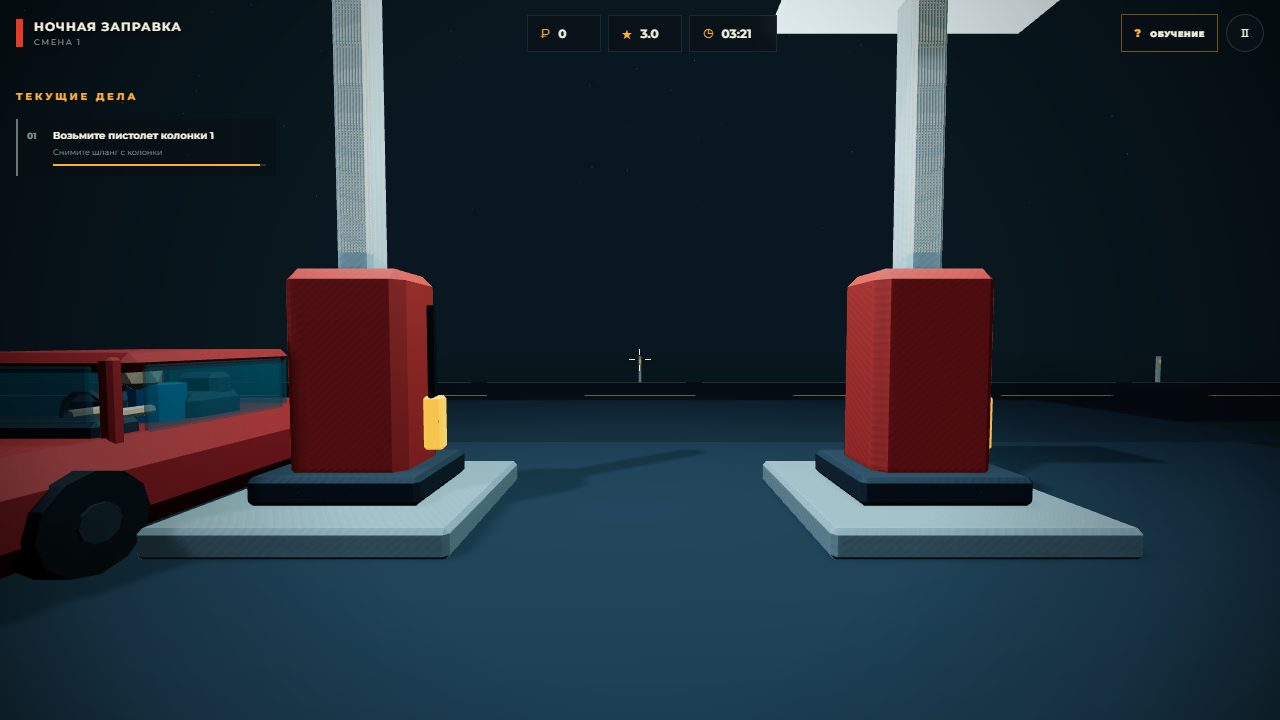
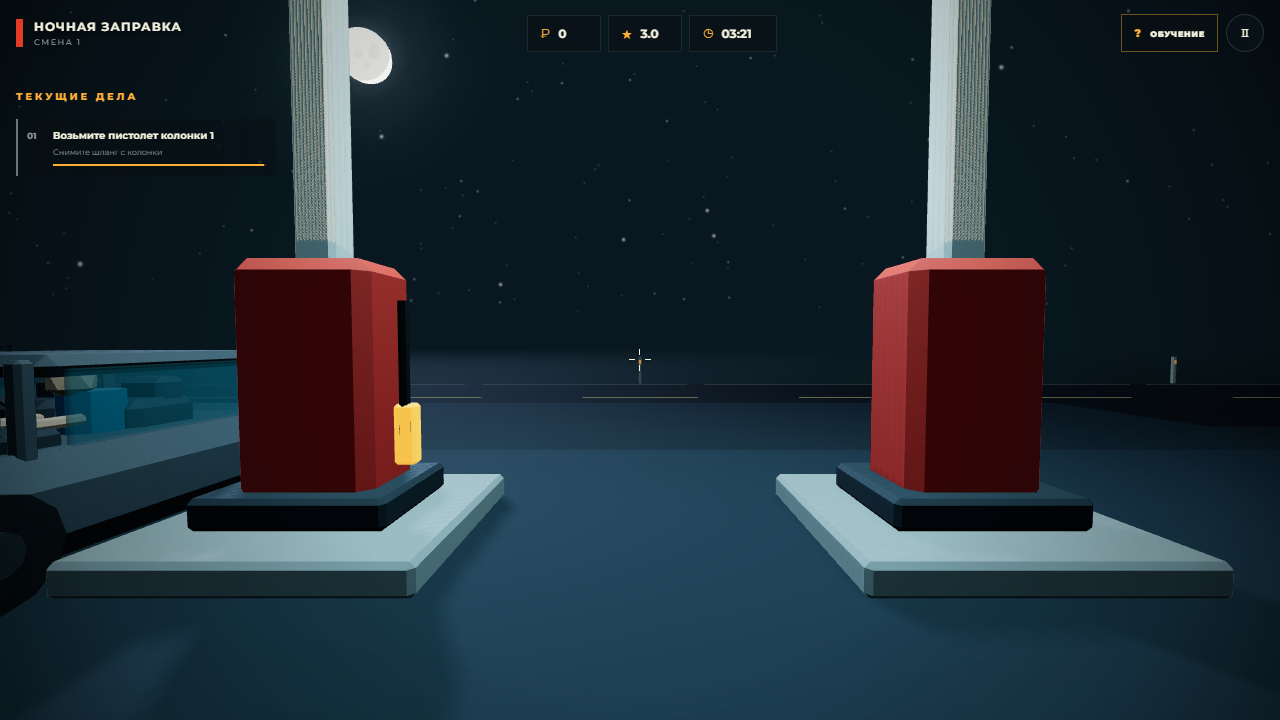
Hang a moon over the highway and let the player jump
Adds src/sky.js: a moon disc with maria and a halo, four layers of stars
with a milky way band, and an occasional meteor. The directional
moonlight now points from where the moon is drawn, so shadows match the
sky. Sky materials ignore fog and the dome rides with the camera, so it
reads as infinitely far away.

Jumping is bound to Space and to a new button beside the action button:
0.69 m high, 0.57 s in the air, with a landing dip and a held item that
lags behind in flight. It is deliberately vertical only — horizontal
collision is untouched, so the counter, pumps and cars still block the
way.

Also fixes interaction targeting. A spill could land next to the mop
stand, and holding E there returned the mop instead of cleaning, which
left the job impossible to finish. Tool stands now yield to real jobs, a
job matching what is already in hand pulls harder, and spills keep clear
of the cleaning kit.

E2E covers the night sky, the jump arc and the mobile jump button.

Changed region(s): [[0.0, 0.0, 0.5312, 0.8556], [0.5938, 0.0, 0.9688, 0.8556], [0.9062, 0.4889, 0.9375, 0.5194]]

diff --git a/src/main.js b/src/main.js
@@ -5,6 +5,7 @@ import { AudioSystem } from './audio.js';
 import { initGamePush, loadLocal, saveProgress, showInterstitial, showRewarded, gpState, bindAdPause } from './gamepush.js';
 import { HandView } from './hands.js';
 import { ROAD, laneFor, entryPath, reversePath, exitPath, passPath, addLights, drive, setPath } from './traffic.js';
+import { createSky, MOON_DIRECTION } from './sky.js';
 
 const $=s=>document.querySelector(s), $$=s=>[...document.querySelectorAll(s)];
 const ui={
@@ -19,6 +20,7 @@ const isTouch=matchMedia('(pointer:coarse)').matches;
 const SLOT_Z=-7.4,SLOT_OFFSET=2.3,VAN_SLOT={x:7.6,z:-7.4};
 const VEHICLE_STATE=Object.freeze({ENTERING:'entering',WAITING:'waiting',FUELING:'fueling',LEAVING:'leaving'});
 const PLAYER_RADIUS=.36,SAFE_MARGIN=.22,VEHICLE_MARGIN=.28,SAFE_APPROACH=12;
+const EYE_HEIGHT=1.62,JUMP_SPEED=4.9,GRAVITY=16.5;
 const MOP_SPOT=new THREE.Vector3(0,.25,2.85),TOOL_SPOT=new THREE.Vector3(-4.28,.3,-.45);
 const COFFEE_SPOT=new THREE.Vector3(-1.75,.2,-.7),FOOD_SPOT=new THREE.Vector3(1.75,.2,-.7),FUSE_SPOT=new THREE.Vector3(-4.2,.2,2.2),LOST_SPOT=new THREE.Vector3(3.75,.2,2),STOCK_PICK_SPOT=new THREE.Vector3(-2.75,.2,3.18),STOCK_SHELF_SPOT=new THREE.Vector3(2,.2,3.8);
 const STOW_NOTE={mop:'Швабра вернулась на место',tools:'Инструменты вернулись в ящик'};
@@ -31,14 +33,14 @@ class NightStationGame{
     this.camera=new THREE.PerspectiveCamera(72,innerWidth/innerHeight,.08,120);this.camera.position.set(0,1.65,-2.8);this.camera.rotation.order='YXZ';
     this.renderer=new THREE.WebGLRenderer({canvas:this.canvas,antialias:true,powerPreference:'high-performance'});this.renderer.setPixelRatio(Math.min(devicePixelRatio,1.55));this.renderer.setSize(innerWidth,innerHeight);this.renderer.shadowMap.enabled=true;this.renderer.shadowMap.type=THREE.PCFSoftShadowMap;this.renderer.outputColorSpace=THREE.SRGBColorSpace;this.renderer.toneMapping=THREE.ACESFilmicToneMapping;this.renderer.toneMappingExposure=1.28;
     this.clock=new THREE.Clock();this.assets={};this.mode='loading';this.player=null;this.jobs=[];this.cars=[];this.traffic=[];this.pumps=[];this.nearest=null;this.actionHeld=false;this.actionLatched=false;this.actionProgress=0;this.keys={};this.joy={x:0,y:0};this.yaw=0;this.pitch=-.04;this.lookTouch=null;this.jobId=0;this.vehicleId=0;this.taskSignature='';this.guideIndex=0;this.resumeAfterGuide=false;this.elapsed=0;this.shiftLength=210;this.spawnTimer=2;this.eventTimer=24;this.trafficTimer=4;this.stock=6;this.carry=null;this.fuelHose=null;this.served=0;this.shiftStartMoney=0;this.blackout=false;this.blackoutCarry=null;this.specialVan=null;this.doorOpen=0;this.doorParts={left:[],right:[]};this.doorGlass=[];this.powerVisuals=[];this.state={...SAVE_DEFAULT,upgrades:{...SAVE_DEFAULT.upgrades}};
-    this.hands=new HandView();this.moving=false;this.lastYaw=0;this.lastPitch=0;
+    this.hands=new HandView();this.moving=false;this.lastYaw=0;this.lastPitch=0;this.grounded=true;this.jumpHeight=0;this.jumpSpeed=0;this.landDip=0;
     this.setupWorld();this.setupInput();this.setupUI();window.addEventListener('resize',()=>this.resize());document.addEventListener('visibilitychange',()=>this.visibility());
   }
   setupWorld(){
     const hemi=new THREE.HemisphereLight(0x7faabb,0x0b1715,1.85);this.scene.add(hemi);this.hemi=hemi;
     this.stationLights=[];
     [[-2.5,6,-7.4],[2.5,6,-7.4],[0,4,-.5]].forEach(([x,y,z],i)=>{const l=new THREE.PointLight(i===2?0xffdfad:0xb9efff,i===2?22:28,15,1.5);l.position.set(x,y,z);l.castShadow=i===2;l.shadow.mapSize.set(512,512);this.scene.add(l);this.stationLights.push(l)});
-    const moon=new THREE.DirectionalLight(0x86a3c5,3.1);moon.position.set(-12,18,9);moon.castShadow=true;moon.shadow.mapSize.set(1024,1024);moon.shadow.camera.left=-22;moon.shadow.camera.right=22;moon.shadow.camera.top=22;moon.shadow.camera.bottom=-22;this.scene.add(moon);
+    const moon=new THREE.DirectionalLight(0x86a3c5,3.1);moon.position.copy(MOON_DIRECTION).multiplyScalar(24);moon.castShadow=true;moon.shadow.mapSize.set(1024,1024);moon.shadow.camera.left=-22;moon.shadow.camera.right=22;moon.shadow.camera.top=22;moon.shadow.camera.bottom=-22;this.scene.add(moon);
     const ground=new THREE.Mesh(new THREE.PlaneGeometry(180,180),new THREE.MeshStandardMaterial({color:0x182620,roughness:1}));ground.rotation.x=-Math.PI/2;ground.receiveShadow=true;this.scene.add(ground);
     const forecourt=new THREE.Mesh(new THREE.PlaneGeometry(19,23),new THREE.MeshStandardMaterial({color:0x263239,roughness:.95}));forecourt.rotation.x=-Math.PI/2;forecourt.position.set(0,.012,-5);forecourt.receiveShadow=true;this.scene.add(forecourt);
     // Трасса тянется дальше, чем видит туман: машины успевают выехать и уехать по дороге.
@@ -50,7 +52,7 @@ class NightStationGame{
     for(let x=-60;x<61;x+=10){const p=new THREE.Mesh(new THREE.BoxGeometry(.1,1,.1),postMat);p.position.set(x,.5,-21.9);this.scene.add(p);const r=new THREE.Mesh(new THREE.PlaneGeometry(.09,.16),reflectMat);r.position.set(x,.8,-21.84);this.scene.add(r)}
     const gravelMat=new THREE.MeshStandardMaterial({color:0x18201d,roughness:1});for(let i=0;i<24;i++){const rock=new THREE.Mesh(new THREE.DodecahedronGeometry(.12+Math.random()*.2,0),gravelMat);const side=Math.random()<.5?-1:1;rock.position.set(side*(10+Math.random()*15),.13,-5+Math.random()*23);rock.scale.y=.45;this.scene.add(rock)}
     const trunkMat=new THREE.MeshStandardMaterial({color:0x20170d}),pineMat=new THREE.MeshStandardMaterial({color:0x071c15});for(let i=0;i<20;i++){const side=Math.random()<.5?-1:1,x=side*(13+Math.random()*20),z=-10+Math.random()*33;const trunk=new THREE.Mesh(new THREE.CylinderGeometry(.12,.18,1.8,7),trunkMat);trunk.position.set(x,.9,z);const crown=new THREE.Mesh(new THREE.ConeGeometry(1.2+Math.random()*.8,3.7+Math.random()*2,7),pineMat);crown.position.set(x,3,z);this.scene.add(trunk,crown)}
-    const starGeo=new THREE.BufferGeometry(),starPos=[];for(let i=0;i<220;i++){const a=Math.random()*Math.PI*2,r=42+Math.random()*35,y=14+Math.random()*30;starPos.push(Math.cos(a)*r,y,Math.sin(a)*r)}starGeo.setAttribute('position',new THREE.Float32BufferAttribute(starPos,3));this.scene.add(new THREE.Points(starGeo,new THREE.PointsMaterial({color:0xbad7df,size:.11,transparent:true,opacity:.75})));
+    this.sky=createSky();this.scene.add(this.sky.group);
     // Ящик с инструментом у левой стены магазина: отсюда берут отвёртку и ключ.
     const toolbox=new THREE.Group();toolbox.position.set(TOOL_SPOT.x,.24,TOOL_SPOT.z);
     const boxMat=new THREE.MeshStandardMaterial({color:0xc2411f,roughness:.72}),steelMat=new THREE.MeshStandardMaterial({color:0x9aa5ab,roughness:.42,metalness:.55});
@@ -87,7 +89,7 @@ class NightStationGame{
     this.camera.lookAt(0,0,-4);ui.loadFill.style.width='100%';
   }
   setupInput(){
-    addEventListener('keydown',e=>{if(['KeyW','KeyA','KeyS','KeyD','ShiftLeft','ShiftRight','KeyE'].includes(e.code))e.preventDefault();this.keys[e.code]=true;if(e.code==='KeyE')this.actionHeld=true;if(e.code==='Escape'&&this.mode==='playing')this.pause()});
+    addEventListener('keydown',e=>{if(['KeyW','KeyA','KeyS','KeyD','ShiftLeft','ShiftRight','KeyE','Space'].includes(e.code))e.preventDefault();this.keys[e.code]=true;if(e.code==='KeyE')this.actionHeld=true;if(e.code==='Escape'&&this.mode==='playing')this.pause()});
     addEventListener('keyup',e=>{this.keys[e.code]=false;if(e.code==='KeyE'){this.actionHeld=false;this.actionProgress=0;this.actionLatched=false}});addEventListener('blur',()=>{this.keys={};this.actionHeld=false;this.actionLatched=false;this.joy={x:0,y:0}});
     this.canvas.addEventListener('click',()=>this.lockPointer());
     addEventListener('mousemove',e=>{if(document.pointerLockElement!==this.canvas||this.mode!=='playing')return;this.yaw-=e.movementX*.0022;this.pitch=THREE.MathUtils.clamp(this.pitch-e.movementY*.0019,-1.35,1.25)});
@@ -98,6 +100,7 @@ class NightStationGame{
     const joy=$('#joystick'),nub=$('#joystick i');let joyId=null;const update=e=>{const r=joy.getBoundingClientRect(),x=e.clientX-(r.left+r.width/2),y=e.clientY-(r.top+r.height/2),len=Math.hypot(x,y)||1,m=Math.min(38,len),nx=x/len,ny=y/len;this.joy={x:nx*m/38,y:ny*m/38};nub.style.transform=`translate(${nx*m}px,${ny*m}px)`};
     joy.addEventListener('pointerdown',e=>{joyId=e.pointerId;joy.setPointerCapture(joyId);update(e)});joy.addEventListener('pointermove',e=>{if(e.pointerId===joyId)update(e)});const end=e=>{if(e.pointerId!==joyId)return;joyId=null;this.joy={x:0,y:0};nub.style.transform=''};joy.addEventListener('pointerup',end);joy.addEventListener('pointercancel',end);
     const act=$('#action-btn');act.addEventListener('pointerdown',e=>{e.preventDefault();this.actionHeld=true;act.setPointerCapture(e.pointerId)});const release=()=>{this.actionHeld=false;this.actionProgress=0;this.actionLatched=false};act.addEventListener('pointerup',release);act.addEventListener('pointercancel',release);
+    const jump=$('#jump-btn');jump.addEventListener('pointerdown',e=>{e.preventDefault();this.keys.Space=true;try{jump.setPointerCapture(e.pointerId)}catch{}});const jumpEnd=()=>{this.keys.Space=false};jump.addEventListener('pointerup',jumpEnd);jump.addEventListener('pointercancel',jumpEnd);
   }
   lockPointer(){if(isTouch||this.mode!=='playing'||document.pointerLockElement===this.canvas)return;try{const result=this.canvas.requestPointerLock?.();result?.catch?.(()=>{})}catch{}}
   setupUI(){
@@ -113,14 +116,15 @@ class NightStationGame{
   showMenu(){this.mode='menu';document.exitPointerLock?.();this.camera.fov=43;this.camera.updateProjectionMatrix();this.camera.position.set(12,12,-16);this.camera.lookAt(0,1,-4);if(this.player)this.player.visible=true;ui.hud.classList.add('hidden');ui.tasks.classList.add('hidden');ui.mobile.classList.add('hidden');ui.prompt.classList.add('hidden');ui.crosshair.classList.add('hidden');ui.lookHint.classList.add('hidden');ui.menu.classList.remove('hidden');$('#continue-btn').classList.toggle('hidden',!loadLocal());}
   prepareStart(fresh){audio.ensure();if(fresh)this.setState({...SAVE_DEFAULT,upgrades:{...SAVE_DEFAULT.upgrades},tutorial:false});ui.menu.classList.add('hidden');if(!this.state.tutorial)ui.tutorial.classList.remove('hidden');else this.startShift()}
   startShift(){
-    this.clearShift();this.addStandJobs();this.mode='playing';this.elapsed=0;this.spawnTimer=.8;this.eventTimer=24+Math.random()*7;this.trafficTimer=2.5;this.served=0;this.stock=6;this.shiftStartMoney=this.state.money;this.blackout=false;this.blackoutCarry=null;this.setBlackout(false);this.doorOpen=0;this.applyDoorOpen();this.yaw=0;this.pitch=-.04;this.camera.fov=72;this.camera.updateProjectionMatrix();this.player.position.set(0,.26,-3.35);this.player.visible=false;ui.hud.classList.remove('hidden');ui.tasks.classList.remove('hidden');ui.crosshair.classList.remove('hidden');ui.lookHint.classList.toggle('hidden',isTouch||document.pointerLockElement===this.canvas);ui.mobile.classList.toggle('hidden',!isTouch);ui.results.classList.add('hidden');this.toast(`Смена ${this.state.shift} открыта. <b>До рассвета 03:30</b>`);this.updateHud();saveProgress(this.state);this.lockPointer()
+    this.clearShift();this.addStandJobs();this.mode='playing';this.elapsed=0;this.spawnTimer=.8;this.eventTimer=24+Math.random()*7;this.trafficTimer=2.5;this.served=0;this.stock=6;this.shiftStartMoney=this.state.money;this.blackout=false;this.blackoutCarry=null;this.setBlackout(false);this.doorOpen=0;this.applyDoorOpen();this.yaw=0;this.pitch=-.04;this.camera.fov=72;this.camera.updateProjectionMatrix();this.player.position.set(0,.26,-3.35);this.player.visible=false;this.resetJump();ui.hud.classList.remove('hidden');ui.tasks.classList.remove('hidden');ui.crosshair.classList.remove('hidden');ui.lookHint.classList.toggle('hidden',isTouch||document.pointerLockElement===this.canvas);ui.mobile.classList.toggle('hidden',!isTouch);ui.results.classList.add('hidden');this.toast(`Смена ${this.state.shift} открыта. <b>До рассвета 03:30</b>`);this.updateHud();saveProgress(this.state);this.lockPointer()
   }
   clearShift(){this.returnFuelHose();for(const c of [...this.cars])this.despawn(c);this.cars=[];for(const t of [...this.traffic])this.despawn(t);this.traffic=[];for(const j of this.jobs)if(j.visual)this.scene.remove(j.visual);this.jobs=[];this.pumps.forEach(p=>{p.car=null;p.broken=false});if(this.specialVan){this.despawn(this.specialVan);this.specialVan=null}this.carry=null;this.blackoutCarry=null;this.kitMop?.forEach(m=>m.visible=true);this.updateCarry()}
   update(dt){
     if(this.mode==='playing')this.updatePlay(dt);else if(this.mode==='menu'||this.mode==='loading')this.updateMenu(dt);
+    this.sky.update(dt,this.camera.position);
     this.marker.rotation.y+=dt*.8;if(this.marker.visible)this.marker.position.y=.12+Math.sin(performance.now()*.003)*.08;
     const playing=this.mode==='playing';
-    if(playing){this.hands.update(dt,{moving:this.moving,acting:this.actionHeld&&!!this.nearest,fueling:this.cars.some(c=>c.status===VEHICLE_STATE.FUELING),yawDelta:this.yaw-this.lastYaw,pitchDelta:this.pitch-this.lastPitch});this.updateFuelHoseVisual()}
+    if(playing){this.hands.update(dt,{moving:this.moving,acting:this.actionHeld&&!!this.nearest,fueling:this.cars.some(c=>c.status===VEHICLE_STATE.FUELING),vertical:this.grounded?0:this.jumpSpeed,landing:this.landDip,yawDelta:this.yaw-this.lastYaw,pitchDelta:this.pitch-this.lastPitch});this.updateFuelHoseVisual()}
     this.lastYaw=this.yaw;this.lastPitch=this.pitch;
     this.renderer.render(this.scene,this.camera);
     if(playing)this.hands.render(this.renderer,this.camera.aspect)
@@ -128,7 +132,7 @@ class NightStationGame{
   updateMenu(dt){const t=performance.now()*.00025;const target=new THREE.Vector3(12+Math.sin(t)*2,12,-16+Math.cos(t)*2);this.camera.position.lerp(target,dt*.6);this.camera.lookAt(0,1,-4)}
   openGuide(){if(this.mode!=='playing')return;this.resumeAfterGuide=true;this.mode='guide';this.actionHeld=false;document.exitPointerLock?.();audio.pause(true);this.guideIndex=0;this.renderGuide();ui.mobile.classList.add('hidden');ui.lookHint.classList.add('hidden');ui.guide.classList.remove('hidden')}
   renderGuide(){const slides=[
-    ['Как двигаться','Кликните по игре и осматривайтесь мышью. WASD — движение относительно взгляда, Shift — бег, E — действие. На телефоне: левый стик и свайп справа.','tutorial/01-controls.png'],
+    ['Как двигаться','Кликните по игре и осматривайтесь мышью. WASD — движение относительно взгляда, Shift — бег, Space — прыжок, E — действие. На телефоне: левый стик, свайп справа и кнопки «Прыжок» и «Действие».','tutorial/01-controls.png'],
     ['Колонки и машины','Когда машина остановится, сначала снимите пистолет с отмеченной колонки. Затем подойдите к лючку машины и удерживайте E для заправки. После неё шланг вернётся на место.','tutorial/02-pumps.png'],
     ['Кофе, еда и склад','Кофе и еда готовятся на двух аппаратах у прилавка — ищите таблички «КОФЕ» и «ЕДА». Товарные стеллажи теперь стоят у задней стены и не закрывают проходы.','tutorial/03-shop.png'],
     ['Ночные происшествия','При отключении света вся заправка остановится: сначала возьмите инструменты и почините щиток у левой стены. Входные двери аварийно останутся открыты. Для пятна нужна швабра, а жёлтый ящик «НАХОДКИ» стоит справа.','tutorial/04-events.png']
@@ -145,8 +149,21 @@ class NightStationGame{
   updatePlayer(dt){
     let strafe=(this.keys.KeyD?1:0)-(this.keys.KeyA?1:0)+this.joy.x,forward=(this.keys.KeyW?1:0)-(this.keys.KeyS?1:0)-this.joy.y;const len=Math.hypot(strafe,forward);let moving=false;
     if(len>.05){strafe/=Math.max(1,len);forward/=Math.max(1,len);const run=this.keys.ShiftLeft||this.keys.ShiftRight?1.55:1,speed=(4.35+this.state.upgrades.speed*.52)*run,fx=-Math.sin(this.yaw),fz=-Math.cos(this.yaw),rx=Math.cos(this.yaw),rz=-Math.sin(this.yaw),dx=(rx*strafe+fx*forward)*speed*dt,dz=(rz*strafe+fz*forward)*speed*dt;const nextX=this.player.position.x+dx,nextZ=this.player.position.z+dz,stuck=this.isBlocked(this.player.position.x,this.player.position.z);if(stuck||!this.isBlocked(nextX,this.player.position.z))this.player.position.x=nextX;if(stuck||!this.isBlocked(this.player.position.x,nextZ))this.player.position.z=nextZ;moving=true}
-    this.moving=moving;const bob=moving?Math.sin(this.elapsed*11)*.035:0;this.camera.position.set(this.player.position.x,1.62+bob,this.player.position.z);this.camera.rotation.set(this.pitch,this.yaw,0,'YXZ')
+    this.moving=moving;this.updateJump(dt);
+    const bob=moving&&this.grounded?Math.sin(this.elapsed*11)*.035:0;
+    this.camera.position.set(this.player.position.x,EYE_HEIGHT+bob+this.jumpHeight-this.landDip,this.player.position.z);
+    this.camera.rotation.set(this.pitch,this.yaw,0,'YXZ')
   }
+  /* Прыжок ничего не меняет по горизонтали: перепрыгнуть прилавок или машину нельзя. */
+  updateJump(dt){
+    if(this.grounded&&this.keys.Space){this.grounded=false;this.jumpSpeed=JUMP_SPEED;audio.tone(196,.09,'sine',.1)}
+    if(!this.grounded){
+      this.jumpSpeed-=GRAVITY*dt;this.jumpHeight+=this.jumpSpeed*dt;
+      if(this.jumpHeight<=0){this.jumpHeight=0;this.grounded=true;this.landDip=Math.min(.13,Math.abs(this.jumpSpeed)*.026);this.jumpSpeed=0;audio.tone(104,.13,'sine',.09)}
+    }
+    this.landDip+=(0-this.landDip)*Math.min(1,dt*8.5);
+  }
+  resetJump(){this.grounded=true;this.jumpHeight=0;this.jumpSpeed=0;this.landDip=0}
   placeHoseSegment(mesh,a,b){const d=this.hoseDirection.subVectors(b,a),length=d.length();mesh.position.copy(a).add(b).multiplyScalar(.5);mesh.scale.set(1,length,1);mesh.quaternion.setFromUnitVectors(this.hoseUp,d.normalize())}
   updateFuelHoseVisual(){
     const active=this.fuelHose&&this.carry==='hose'&&this.player;if(!active){this.hoseWorld.visible=false;return}
@@ -300,7 +317,7 @@ class NightStationGame{
   updateJobs(dt){for(const j of [...this.jobs]){if(j.patience!=null&&this.worksDuringBlackout(j)){j.patience-=dt;if(j.patience<=0){this.removeJob(j);j.onFail?.()}}}this.renderTasks()}
   renderTasks(){const shown=this.jobs.filter(j=>!j.hidden).sort((a,b)=>(b.priority||0)-(a.priority||0)||a.created-b.created).slice(0,5),signature=shown.map(j=>j.id).join(',')+'|'+(this.nearest?.id||0);if(signature!==this.taskSignature){this.taskSignature=signature;ui.taskList.innerHTML=shown.map((j,i)=>`<div class="task ${j===this.nearest?'active':''}" data-job="${j.id}"><span class="num">0${i+1}</span><b>${this.jobLabel(j)}</b><small>${j.sub||''}</small>${j.patience!=null?'<div class="patience"><i></i></div>':''}</div>`).join('')||'<div class="task"><span class="num">✓</span><b>Всё спокойно</b><small>Осмотритесь вокруг</small></div>'}for(const j of shown){if(j.patience==null)continue;const bar=ui.taskList.querySelector(`[data-job="${j.id}"] .patience i`);if(bar)bar.style.width=`${Math.max(0,j.patience/j.maxPatience*100)}%`}}
   updateInteraction(dt){
-    let nearest=null,best=2.15;for(const j of this.jobs){const p=j.pos(),d=Math.hypot(p.x-this.player.position.x,p.z-this.player.position.z);if(d<best){best=d;nearest=j}}
+    let nearest=null,best=2.15;for(const j of this.jobs){const p=j.pos();let d=Math.hypot(p.x-this.player.position.x,p.z-this.player.position.z);if(j.hidden)d+=.85;if(j.need&&this.carry===j.need)d-=.5;if(d<best){best=d;nearest=j}}
     if(nearest!==this.nearest){this.nearest?.onProgress?.(0);this.nearest=nearest;this.actionProgress=0}
     const poweredOff=nearest&&!this.worksDuringBlackout(nearest),missing=nearest&&nearest.need&&this.carry!==nearest.need?nearest.need:null;
     this.marker.visible=!!nearest;if(nearest){const p=nearest.pos();this.marker.position.x=p.x;this.marker.position.z=p.z;ui.prompt.classList.remove('hidden');ui.promptKey.textContent=isTouch?'●':'E';ui.promptTitle.textContent=this.jobLabel(nearest);ui.promptSub.textContent=poweredOff?'Нет электричества — сначала почините щиток':missing?NEED_HINT[missing]:'Удерживайте для действия'}else ui.prompt.classList.add('hidden');
@@ -313,7 +330,8 @@ class NightStationGame{
     if(type==='spill')this.spawnSpill();if(type==='blackout')this.eventBlackout();if(type==='bag')this.eventBag();if(type==='broken')this.eventBrokenPump();if(type==='van')this.eventVan();if(type==='whisper')this.eventWhisper()
   }
   spawnSpill(){
-    const p=new THREE.Vector3(-3+Math.random()*6,.255,-1+Math.random()*4),visual=new THREE.Group(),coffee=new THREE.MeshBasicMaterial({color:0x6b2f1b,transparent:true,opacity:.94,depthWrite:false,polygonOffset:true,polygonOffsetFactor:-2}),shine=new THREE.MeshBasicMaterial({color:0xc7783e,transparent:true,opacity:.7,depthWrite:false,polygonOffset:true,polygonOffsetFactor:-3});
+    const p=new THREE.Vector3(0,.255,0);do{p.set(-3+Math.random()*6,.255,-1+Math.random()*4)}while(Math.hypot(p.x-MOP_SPOT.x,p.z-MOP_SPOT.z)<1.3);
+    const visual=new THREE.Group(),coffee=new THREE.MeshBasicMaterial({color:0x6b2f1b,transparent:true,opacity:.94,depthWrite:false,polygonOffset:true,polygonOffsetFactor:-2}),shine=new THREE.MeshBasicMaterial({color:0xc7783e,transparent:true,opacity:.7,depthWrite:false,polygonOffset:true,polygonOffsetFactor:-3});
     [[0,0,.68,coffee],[-.48,.08,.28,coffee],[.43,-.18,.22,coffee],[.14,.3,.13,shine],[-.2,-.13,.09,shine]].forEach(([x,z,r,material],i)=>{const drop=new THREE.Mesh(new THREE.CircleGeometry(r,12),material);drop.name=i?'CoffeeDrop':'CoffeeSpill';drop.rotation.x=-Math.PI/2;drop.position.set(x,i*.001,z);drop.scale.set(1,i?.68:.82,1);drop.renderOrder=3;visual.add(drop)});visual.position.copy(p);this.scene.add(visual);
     this.eventNotice('≋','Кто-то разлил кофе','Пол становится липким. Швабра стоит внутри, за прилавком.');this.addJob({tag:'spill',need:'mop',title:'Уберите пятно',sub:'Швабра стоит внутри, за прилавком',pos:()=>p,duration:2.2,visual,onProgress:value=>{const size=Math.max(.12,1-value*.88);visual.scale.setScalar(size);visual.children.forEach((drop,i)=>drop.material.opacity=(i>2?.7:.94)*(.45+.55*(1-value)))},onComplete:()=>{this.state.money+=25;this.toast('Чисто! <b>+₽25</b>');audio.success();this.stowTool()}})
   }

diff --git a/src/sky.js b/src/sky.js
@@ -1,0 +1,117 @@
+import * as THREE from 'three';
+
+/* Ночное небо: луна, звёзды, млечный путь и редкие метеоры.
+   Небо не ловит туман и едет вместе с камерой, поэтому кажется бесконечно далёким. */
+
+export const MOON_DIRECTION=new THREE.Vector3(-.42,.44,-.79).normalize();
+const RADIUS=100;
+
+/* Мягкая круглая точка: из неё сделаны и звёзды, и ореол вокруг луны. */
+function softSprite(){
+  const canvas=document.createElement('canvas');canvas.width=canvas.height=64;
+  const ctx=canvas.getContext('2d'),gradient=ctx.createRadialGradient(32,32,0,32,32,32);
+  gradient.addColorStop(0,'rgba(255,255,255,1)');
+  gradient.addColorStop(.3,'rgba(255,255,255,.6)');
+  gradient.addColorStop(.65,'rgba(255,255,255,.14)');
+  gradient.addColorStop(1,'rgba(255,255,255,0)');
+  ctx.fillStyle=gradient;ctx.fillRect(0,0,64,64);
+  const texture=new THREE.CanvasTexture(canvas);texture.colorSpace=THREE.SRGBColorSpace;return texture;
+}
+
+const gauss=()=>(Math.random()+Math.random()+Math.random()-1.5)/1.5;
+/* Равномерно по верхней полусфере, чуть выше линии горизонта. */
+const domeDirection=()=>{const a=Math.random()*Math.PI*2,y=.05+Math.random()*.95,r=Math.sqrt(Math.max(0,1-y*y));return new THREE.Vector3(Math.cos(a)*r,y,Math.sin(a)*r)};
+
+const BAND_NORMAL=new THREE.Vector3(.58,.46,-.67).normalize();
+const BAND_U=new THREE.Vector3().crossVectors(BAND_NORMAL,new THREE.Vector3(0,1,0)).normalize();
+const BAND_V=new THREE.Vector3().crossVectors(BAND_NORMAL,BAND_U).normalize();
+/* Млечный путь — те же звёзды, но собранные в широкую полосу поперёк неба. */
+const bandDirection=()=>new THREE.Vector3()
+  .addScaledVector(BAND_U,Math.cos(Math.random()*Math.PI*2))
+  .addScaledVector(BAND_V,Math.sin(Math.random()*Math.PI*2))
+  .addScaledVector(BAND_NORMAL,gauss()*.085)
+  .normalize();
+
+function starLayer(count,size,opacity,color,texture,fromBand=false){
+  const positions=[];
+  for(let i=0;i<count;i++){
+    const dir=fromBand?bandDirection():domeDirection();
+    if(dir.y<.04){i--;continue}
+    positions.push(dir.x*RADIUS,dir.y*RADIUS,dir.z*RADIUS);
+  }
+  const geometry=new THREE.BufferGeometry();
+  geometry.setAttribute('position',new THREE.Float32BufferAttribute(positions,3));
+  const material=new THREE.PointsMaterial({color,size,map:texture,transparent:true,opacity,depthWrite:false,fog:false,sizeAttenuation:true});
+  const points=new THREE.Points(geometry,material);points.frustumCulled=false;
+  return points;
+}
+
+/* Луна: плоский диск с морями и двумя ореолами вокруг. */
+function buildMoon(texture){
+  const moon=new THREE.Group();
+  moon.position.copy(MOON_DIRECTION).multiplyScalar(RADIUS);
+  const disc=new THREE.Mesh(new THREE.SphereGeometry(3.8,22,16),new THREE.MeshBasicMaterial({color:0xf6f5e8,fog:false}));
+  moon.add(disc);
+  const mareMat=new THREE.MeshBasicMaterial({color:0xdfe0d4,fog:false});
+  const toViewer=MOON_DIRECTION.clone().negate();
+  for(const [ox,oy,r] of [[-1.05,.85,1.15],[.95,.2,.8],[-.15,-1.15,.62]]){
+    const mare=new THREE.Mesh(new THREE.SphereGeometry(r,10,8),mareMat);
+    const right=new THREE.Vector3().crossVectors(toViewer,new THREE.Vector3(0,1,0)).normalize();
+    const up=new THREE.Vector3().crossVectors(right,toViewer).normalize();
+    mare.position.addScaledVector(right,ox).addScaledVector(up,oy).addScaledVector(toViewer,3.52);
+    mare.scale.z=.35;moon.add(mare);
+  }
+  const halo=new THREE.Sprite(new THREE.SpriteMaterial({map:texture,color:0xc6dcea,transparent:true,opacity:.38,depthWrite:false,fog:false,blending:THREE.AdditiveBlending}));
+  halo.scale.setScalar(14);moon.add(halo);
+  const glow=new THREE.Sprite(new THREE.SpriteMaterial({map:texture,color:0x7ea6c4,transparent:true,opacity:.16,depthWrite:false,fog:false,blending:THREE.AdditiveBlending}));
+  glow.scale.setScalar(44);moon.add(glow);
+  return {moon,halo};
+}
+
+export function createSky(){
+  const texture=softSprite();
+  const group=new THREE.Group();
+  const dim=starLayer(720,.5,.75,0xbcd6e6,texture);
+  const milkyWay=starLayer(540,.44,.62,0xc3d8e8,texture,true);
+  const mid=starLayer(240,.86,.95,0xe4f0f7,texture);
+  const bright=starLayer(60,1.6,1,0xfffdf4,texture);
+  group.add(dim,milkyWay,mid,bright);
+  const {moon,halo}=buildMoon(texture);group.add(moon);
+
+  /* Метеор: раз в полминуты-минуту короткая черта прочерчивает небо. */
+  const meteor=new THREE.Sprite(new THREE.SpriteMaterial({map:texture,color:0xdff0ff,transparent:true,opacity:0,depthWrite:false,fog:false,blending:THREE.AdditiveBlending}));
+  meteor.visible=false;group.add(meteor);
+  const meteorFrom=new THREE.Vector3(),meteorTo=new THREE.Vector3();
+  let meteorTimer=12+Math.random()*30,meteorTime=0;
+
+  return {
+    group,
+    moonDirection:MOON_DIRECTION,
+    update(dt,cameraPosition){
+      group.position.copy(cameraPosition);
+      group.rotation.y+=dt*.0008; // очень медленный ход звёзд за смену
+      const t=performance.now()*.001;
+      mid.material.opacity=.72+Math.sin(t*1.7)*.08;
+      bright.material.opacity=.9+Math.sin(t*2.6+1.1)*.1;
+      halo.material.opacity=.36+Math.sin(t*.8)*.035;
+      if(meteor.visible){
+        meteorTime+=dt;
+        const p=meteorTime/1.1;
+        if(p>=1){meteor.visible=false;meteor.material.opacity=0}
+        else{
+          meteor.position.lerpVectors(meteorFrom,meteorTo,p);
+          meteor.material.opacity=Math.sin(p*Math.PI)*.85;
+          meteor.material.rotation=meteor.userData.tilt;
+          meteor.scale.set(9,.42,1);
+        }
+      }else if((meteorTimer-=dt)<=0){
+        meteorTimer=26+Math.random()*44;meteorTime=0;
+        const start=domeDirection(),drift=domeDirection();
+        meteorFrom.copy(start).multiplyScalar(RADIUS);
+        meteorTo.copy(start).lerp(drift,.28).normalize().multiplyScalar(RADIUS);
+        meteor.userData.tilt=Math.atan2(meteorTo.y-meteorFrom.y,meteorTo.x-meteorFrom.x);
+        meteor.position.copy(meteorFrom);meteor.visible=true;
+      }
+    }
+  };
+}

diff --git a/src/style.css b/src/style.css
@@ -12,6 +12,6 @@
 .guide-card{width:min(840px,95vw);padding:18px;max-height:96vh;overflow:auto}.guide-top{display:flex;align-items:center;justify-content:space-between}.guide-top .eyebrow{margin:0}.guide-top button{border:0;background:none;color:#9eaaa7;font-size:26px;padding:5px 10px}.guide-media{margin-top:14px;aspect-ratio:16/7;background:#050b0e;overflow:hidden;border:1px solid rgba(255,255,255,.1)}.guide-media img{width:100%;height:100%;object-fit:cover;display:block}.guide-copy{padding:17px 8px 8px}.guide-copy span{float:right;color:#778784;font-size:9px;letter-spacing:.12em}.guide-copy h2{font-size:clamp(24px,4vw,38px);margin:0 0 8px}.guide-copy p{margin:0;color:#aebbb7;font-size:11px;line-height:1.55}.guide-nav{display:flex;align-items:center;justify-content:space-between;gap:15px;margin-top:12px}.guide-nav button{min-width:125px}.guide-nav>div{display:flex;gap:6px}.guide-nav i{display:block;width:7px;height:7px;border-radius:50%;background:#405055}.guide-nav i.active{background:var(--amber)}
 .event-card{position:fixed;z-index:15;right:18px;bottom:22px;width:min(410px,calc(100vw - 36px));display:flex;gap:15px;background:linear-gradient(100deg,rgba(28,7,34,.97),rgba(7,15,19,.96));border:1px solid rgba(182,85,255,.25);padding:16px;animation:eventin 5.3s both;pointer-events:none}.event-icon{width:48px;height:48px;flex:0 0 48px;display:grid;place-items:center;background:#5b1b72;color:#e7b9ff;font-size:21px;font-weight:900}.event-card span{font-size:8px;letter-spacing:.2em;color:#bd7dd8}.event-card h3{font-size:14px;margin:5px 0}.event-card p{font-size:9px;color:#aab0ae;margin:0;line-height:1.4}@keyframes eventin{0%,100%{opacity:0;transform:translateY(30px)}7%,88%{opacity:1;transform:none}}
 .results-card{max-height:96vh;overflow:auto}.result-row{display:grid;grid-template-columns:repeat(3,1fr);gap:8px}.result-row div{background:rgba(255,255,255,.045);padding:15px}.result-row small{display:block;color:#7e8c89;font-size:8px;margin-bottom:8px}.result-row b{font-size:18px}.upgrades>p{font-size:8px;letter-spacing:.16em;color:#83918d;margin:22px 0 8px}.upgrades button{display:flex;justify-content:space-between;align-items:center;width:100%;background:#121f24;border:1px solid rgba(255,255,255,.09);padding:10px 13px;margin:5px 0;text-align:left}.upgrades button:hover:not(:disabled){border-color:var(--amber)}.upgrades button:disabled{opacity:.35;cursor:default}.upgrades button span{font-size:10px;font-weight:800}.upgrades button small{display:block;color:#798986;font-size:8px;margin-top:4px}.upgrades button b{font-size:11px;color:var(--amber)}.results-card>.primary,.results-card>.secondary{width:100%;margin-top:10px}
-#mobile-controls{position:fixed;z-index:9;inset:0;pointer-events:none}#joystick{position:absolute;left:max(24px,env(safe-area-inset-left));bottom:max(25px,env(safe-area-inset-bottom));width:116px;height:116px;border:1px solid rgba(255,255,255,.2);border-radius:50%;background:rgba(5,13,17,.27);pointer-events:auto}#joystick:before,#joystick:after{content:"";position:absolute;background:rgba(255,255,255,.12)}#joystick:before{width:1px;height:70%;left:50%;top:15%}#joystick:after{height:1px;width:70%;top:50%;left:15%}#joystick i{position:absolute;left:36px;top:36px;width:44px;height:44px;border-radius:50%;background:rgba(238,240,220,.78);box-shadow:0 5px 18px rgba(0,0,0,.35)}#action-btn{position:absolute;right:max(25px,env(safe-area-inset-right));bottom:max(35px,env(safe-area-inset-bottom));width:90px;height:90px;border-radius:50%;border:2px solid rgba(255,255,255,.55);background:rgba(228,59,38,.75);pointer-events:auto}#action-btn span{font-size:8px;font-weight:900;letter-spacing:.05em}
+#mobile-controls{position:fixed;z-index:9;inset:0;pointer-events:none}#joystick{position:absolute;left:max(24px,env(safe-area-inset-left));bottom:max(25px,env(safe-area-inset-bottom));width:116px;height:116px;border:1px solid rgba(255,255,255,.2);border-radius:50%;background:rgba(5,13,17,.27);pointer-events:auto}#joystick:before,#joystick:after{content:"";position:absolute;background:rgba(255,255,255,.12)}#joystick:before{width:1px;height:70%;left:50%;top:15%}#joystick:after{height:1px;width:70%;top:50%;left:15%}#joystick i{position:absolute;left:36px;top:36px;width:44px;height:44px;border-radius:50%;background:rgba(238,240,220,.78);box-shadow:0 5px 18px rgba(0,0,0,.35)}#action-btn{position:absolute;right:max(25px,env(safe-area-inset-right));bottom:max(35px,env(safe-area-inset-bottom));width:90px;height:90px;border-radius:50%;border:2px solid rgba(255,255,255,.55);background:rgba(228,59,38,.75);pointer-events:auto}#action-btn span{font-size:8px;font-weight:900;letter-spacing:.05em}#jump-btn{position:absolute;right:max(128px,calc(env(safe-area-inset-right) + 128px));bottom:max(48px,calc(env(safe-area-inset-bottom) + 13px));width:66px;height:66px;border-radius:50%;border:2px solid rgba(255,255,255,.4);background:rgba(12,32,42,.72);pointer-events:auto}#jump-btn span{font-size:8px;font-weight:900;letter-spacing:.05em}#jump-btn:active{background:rgba(55,213,239,.5)}
 @media (pointer:coarse),(max-width:800px){#mobile-controls:not(.hidden){display:block!important}.controls-hint{display:none}#look-hint{display:none!important}#prompt{bottom:145px}.menu-card{margin:0}.brand b{font-size:9px}.hud-stats{position:absolute;top:62px;right:12px}.guide-btn span{display:none}.guide-btn{width:38px;padding:0}.stat{min-width:auto;padding:7px 9px}.stat b{font-size:10px}#tasks{top:112px;width:58vw}.task{padding-top:8px;padding-bottom:8px}.task b{font-size:9px}.event-card{bottom:145px}.tutorial-grid{grid-template-columns:1fr}.tutorial-grid div{min-height:0;display:flex;gap:15px;align-items:center}.tutorial-grid b{margin:0}.tutorial-card{max-height:90vh;overflow:auto}.tutorial-card .primary{float:none;width:100%}.guide-media{aspect-ratio:16/9}.guide-nav button{min-width:90px;padding:12px 9px}.guide-copy{padding:12px 3px 4px}}
 @media (max-height:520px){.menu-card h1{font-size:43px}.lead{margin:15px 0}.controls-hint{margin-top:14px}.tutorial-grid{margin:10px 0}.dialog{padding:20px}.result-row div{padding:8px}.upgrades>p{margin-top:10px}.upgrades button{padding:7px 10px}}

diff --git a/index.html b/index.html
@@ -41,6 +41,7 @@
 
   <div id="mobile-controls" class="hidden">
     <div id="joystick"><i></i></div>
+    <button id="jump-btn" aria-label="Прыжок"><span>ПРЫЖОК</span></button>
     <button id="action-btn"><span>ДЕЙСТВИЕ</span></button>
   </div>
 
@@ -60,7 +61,7 @@
         <button id="continue-btn" class="primary">ПРОДОЛЖИТЬ СМЕНУ <span>→</span></button>
         <button id="new-btn" class="secondary">НОВАЯ ИГРА</button>
       </div>
-      <div class="controls-hint"><span><kbd>WASD</kbd> двигаться</span><span><kbd>E</kbd> действие</span><span><kbd>Shift</kbd> бег</span></div>
+      <div class="controls-hint"><span><kbd>WASD</kbd> двигаться</span><span><kbd>E</kbd> действие</span><span><kbd>Shift</kbd> бег</span><span><kbd>Space</kbd> прыжок</span></div>
     </div>
     <div class="road-number">24/7</div>
   </section>
@@ -70,7 +71,7 @@
       <span class="step">ПЕРВАЯ СМЕНА</span>
       <h2>Добро пожаловать<br>на ночную.</h2>
       <div class="tutorial-grid">
-        <div><b>01</b><span>Осматривайся мышью и ходи на <strong>WASD</strong></span></div>
+        <div><b>01</b><span>Осматривайся мышью, ходи на <strong>WASD</strong>, прыгай на <strong>Space</strong></span></div>
         <div><b>02</b><span>Подойди к цели и удерживай <strong>E</strong></span></div>
         <div><b>03</b><span>Кнопка <strong>«Обучение»</strong> всегда покажет карту</span></div>
       </div>

diff --git a/src/hands.js b/src/hands.js
@@ -182,9 +182,11 @@ export class HandView{
     this.use+=((state.acting?1:0)-this.use)*Math.min(1,dt*7);
     this.swayTo.set(THREE.MathUtils.clamp(state.yawDelta*1.6,-.07,.07),THREE.MathUtils.clamp(-state.pitchDelta*1.4,-.055,.055));
     this.sway.lerp(this.swayTo,Math.min(1,dt*8));
-    this.bob+=dt*(state.moving?8.5:1.8);
-    const amp=state.moving?1:.28,ease=1-Math.pow(1-this.raise,3);
-    this.rig.position.set(this.sway.x+Math.cos(this.bob)*.013*amp,this.sway.y+Math.sin(this.bob*2)*.011*amp-(1-ease)*.5,0);
+    this.bob+=dt*(state.moving&&!state.vertical?8.5:1.8);
+    const amp=state.moving&&!state.vertical?1:.28,ease=1-Math.pow(1-this.raise,3);
+    // В прыжке предмет отстаёт от камеры, при приземлении проседает вместе с ней.
+    const airLag=THREE.MathUtils.clamp((state.vertical||0)*-.016,-.06,.06)-(state.landing||0)*.55;
+    this.rig.position.set(this.sway.x+Math.cos(this.bob)*.013*amp,this.sway.y+Math.sin(this.bob*2)*.011*amp-(1-ease)*.5+airLag,0);
     this.rig.rotation.set(-this.sway.y*.7,this.sway.x*.8,this.sway.x*1.1);
     item.userData.anim?.(item,this.time,this.use,state);
   }

diff --git a/README.md b/README.md
@@ -11,6 +11,8 @@
 - **Водители.** В салонах легковых автомобилей видны low-poly водители. Кабина подозрительного фургона просматривается через окна, но оба сиденья в ней пусты.
 - **Предметы в руках.** Всё, что игрок взял, видно в нижней части экрана: стакан кофе с паром, сэндвич, коробка товара, забытая сумка, швабра и инструменты. Предметы покачиваются при ходьбе, ведут за поворотом камеры и отыгрывают само действие — шваброй возят по полу, отвёрткой крутят.
 - **Инвентарь уборщика.** Разлитый кофе убирают шваброй от входа, заклинившую колонку чинят инструментом из ящика у левой стены магазина. Швабру и ключи можно взять и вернуть в любой момент; если руки понадобились под груз, они возвращаются на место сами.
+- **Ночное небо.** Над трассой висит луна с ореолом, вокруг — звёздное небо с млечным путём и редкими метеорами. Лунный свет падает именно оттуда, где нарисована луна, а само небо не ловит туман и едет за камерой, поэтому кажется бесконечно далёким.
+- **Прыжок.** `Space` на ПК и кнопка «Прыжок» на телефоне. Прыжок работает только по вертикали: перепрыгнуть прилавок, колонку или машину нельзя, зато предмет в руках отстаёт в полёте и проседает при приземлении.
 
 ## Запуск
 
@@ -36,8 +38,8 @@ SDK загружается с нескольких официальных адр
 
 ## Управление
 
-- ПК: клик по игровому окну включает обзор мышью; `WASD`, `Shift`, удерживать `E`, `Esc`.
-- Телефон/планшет: левый виртуальный стик, свайп по правой части экрана и кнопка действия.
+- ПК: клик по игровому окну включает обзор мышью; `WASD`, `Shift`, `Space`, удерживать `E`, `Esc`.
+- Телефон/планшет: левый виртуальный стик, свайп по правой части экрана, кнопки «Прыжок» и «Действие».
 - Кнопка «Обучение» в правом верхнем углу показывает четыре иллюстрированные подсказки и расположение рабочих зон.
 
 ## 3D-ассеты
@@ -55,6 +57,7 @@ SDK загружается с нескольких официальных адр
 - `src/main.js` — сцена, цикл смены, задания и ночные события.
 - `src/traffic.js` — маршруты машин по трассе и площадке, разгон и торможение, фары, стопы и задний ход.
 - `src/hands.js` — предметы в руках: отдельная сцена первого плана, которая рисуется поверх мира.
+- `src/sky.js` — луна, звёзды, млечный путь и метеоры.
 - `src/audio.js`, `src/gamepush.js` — звук и интеграция с GamePush.
 
 ## Данные для карточки
